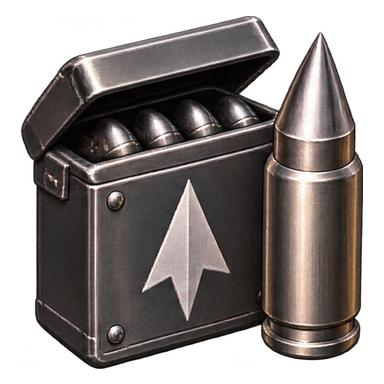
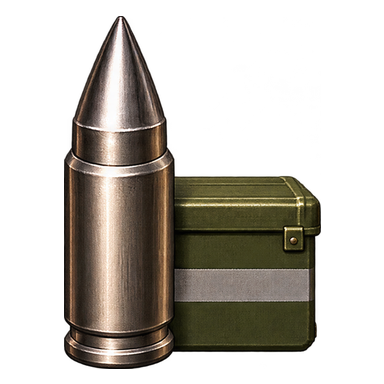
Инвентарь строго сбоку: оружие, патроны (патрон + ящик с полоской эффекта), чертежи и лычки редкости

diff --git a/tools/art/build_icon_kit.py b/tools/art/build_icon_kit.py
@@ -15,7 +15,10 @@ OUT = ROOT / "assets/ui/icon_kit"
 CANVAS = 384
 # Author decisions after play (brief, «Решения автора после игры»): gold alloy bars and the silver paw
 # token replace the generated symbols; a rebuild keeps those files.
-AUTHOR_KEPT = {"alloy", "token", "bullet_vs_rocket"}  # bullet_vs_rocket: T-123 redraw
+AUTHOR_KEPT = {"alloy", "token", "bullet_vs_rocket",
+	# side-view inventory series (art_requests/inventory_side_v1, cut by hand: uneven blueprint/rank grid)
+	"ammo_standard", "ammo_burn", "ammo_stun", "ammo_shock", "ammo_explosive", "ammo_ap", "ammo_ricochet", "ammo_cryo", "ammo_cluster", "ammo_napalm",
+	"bp_weapon", "bp_vehicle", "bp_hq", "bp_ability", "bp_building"}  # bullet_vs_rocket: T-123 redraw
 
 
 def cells(sheet, cols, rows):
